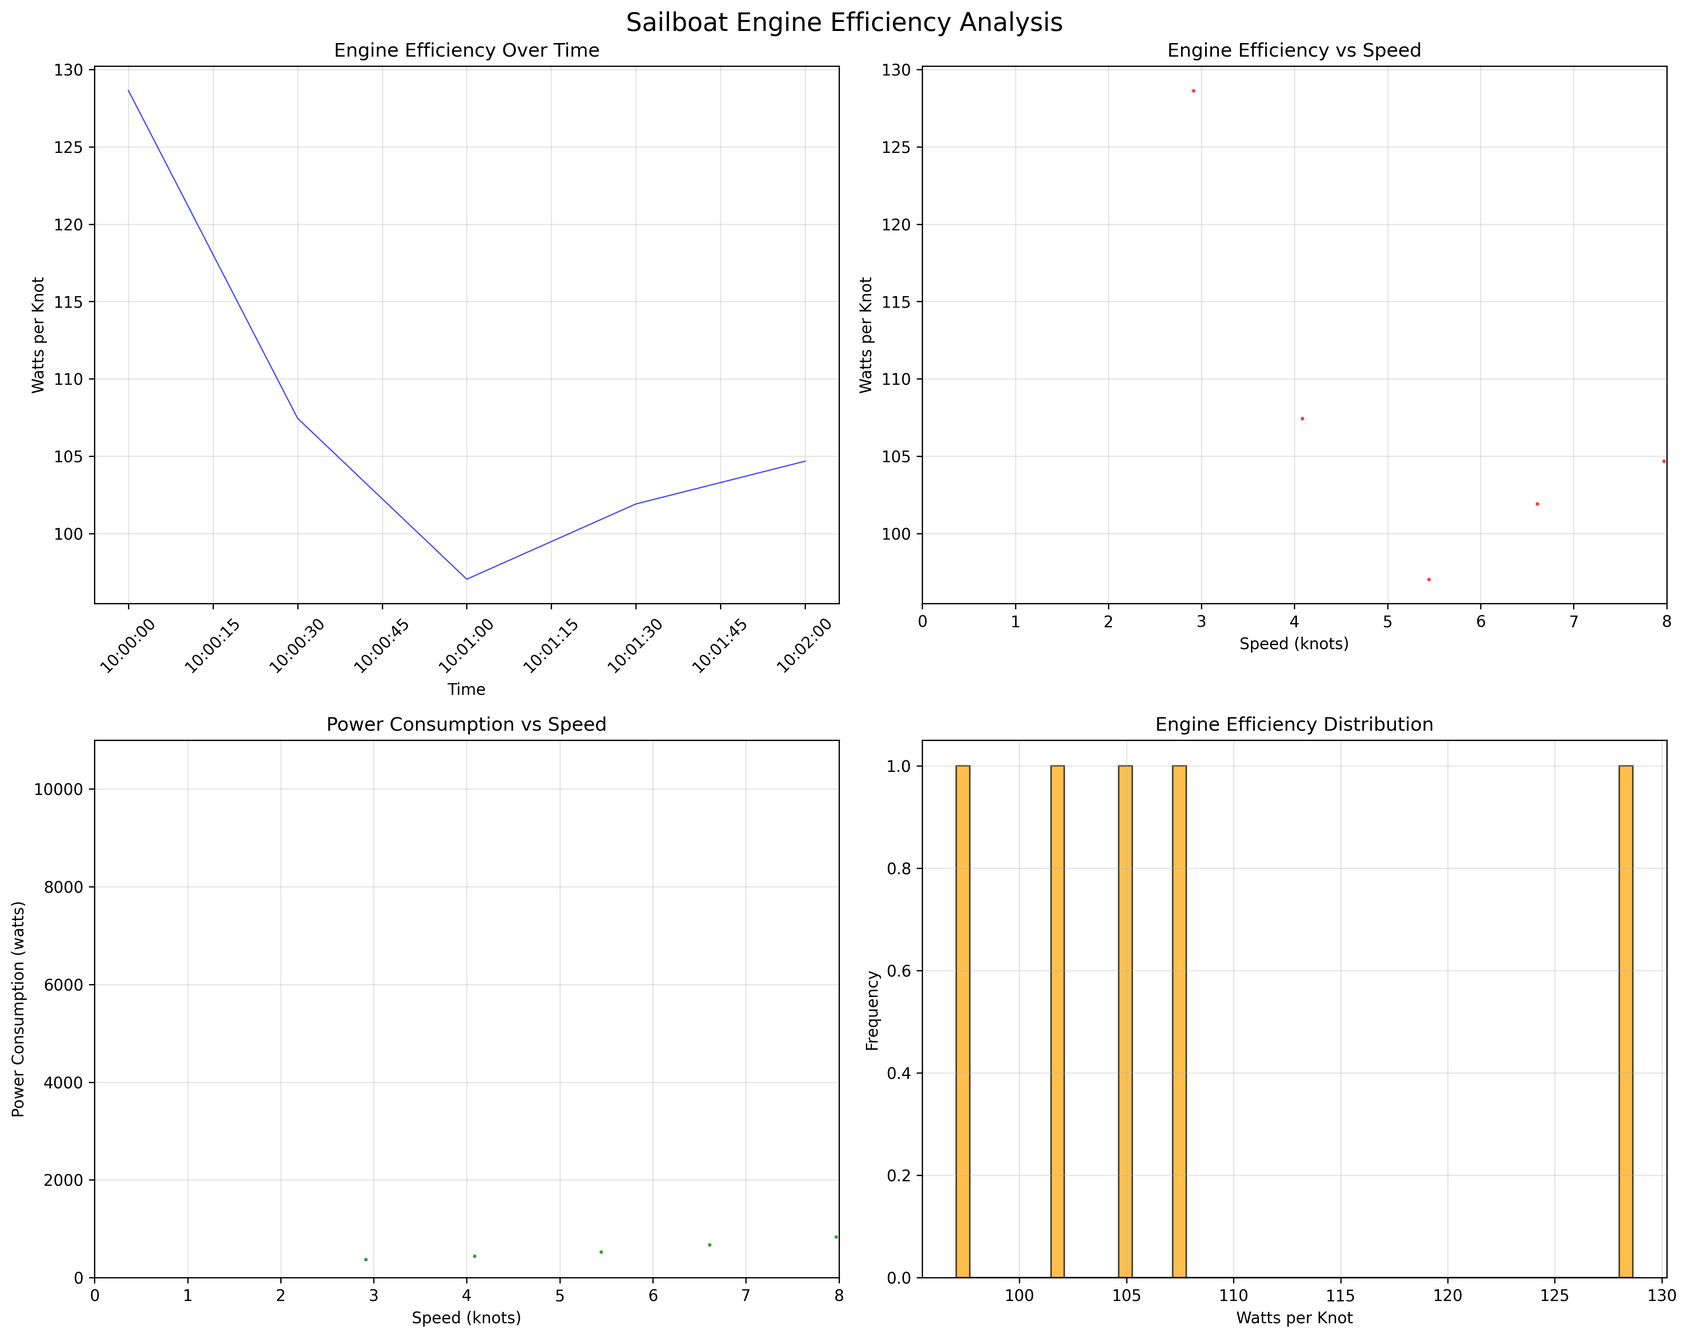
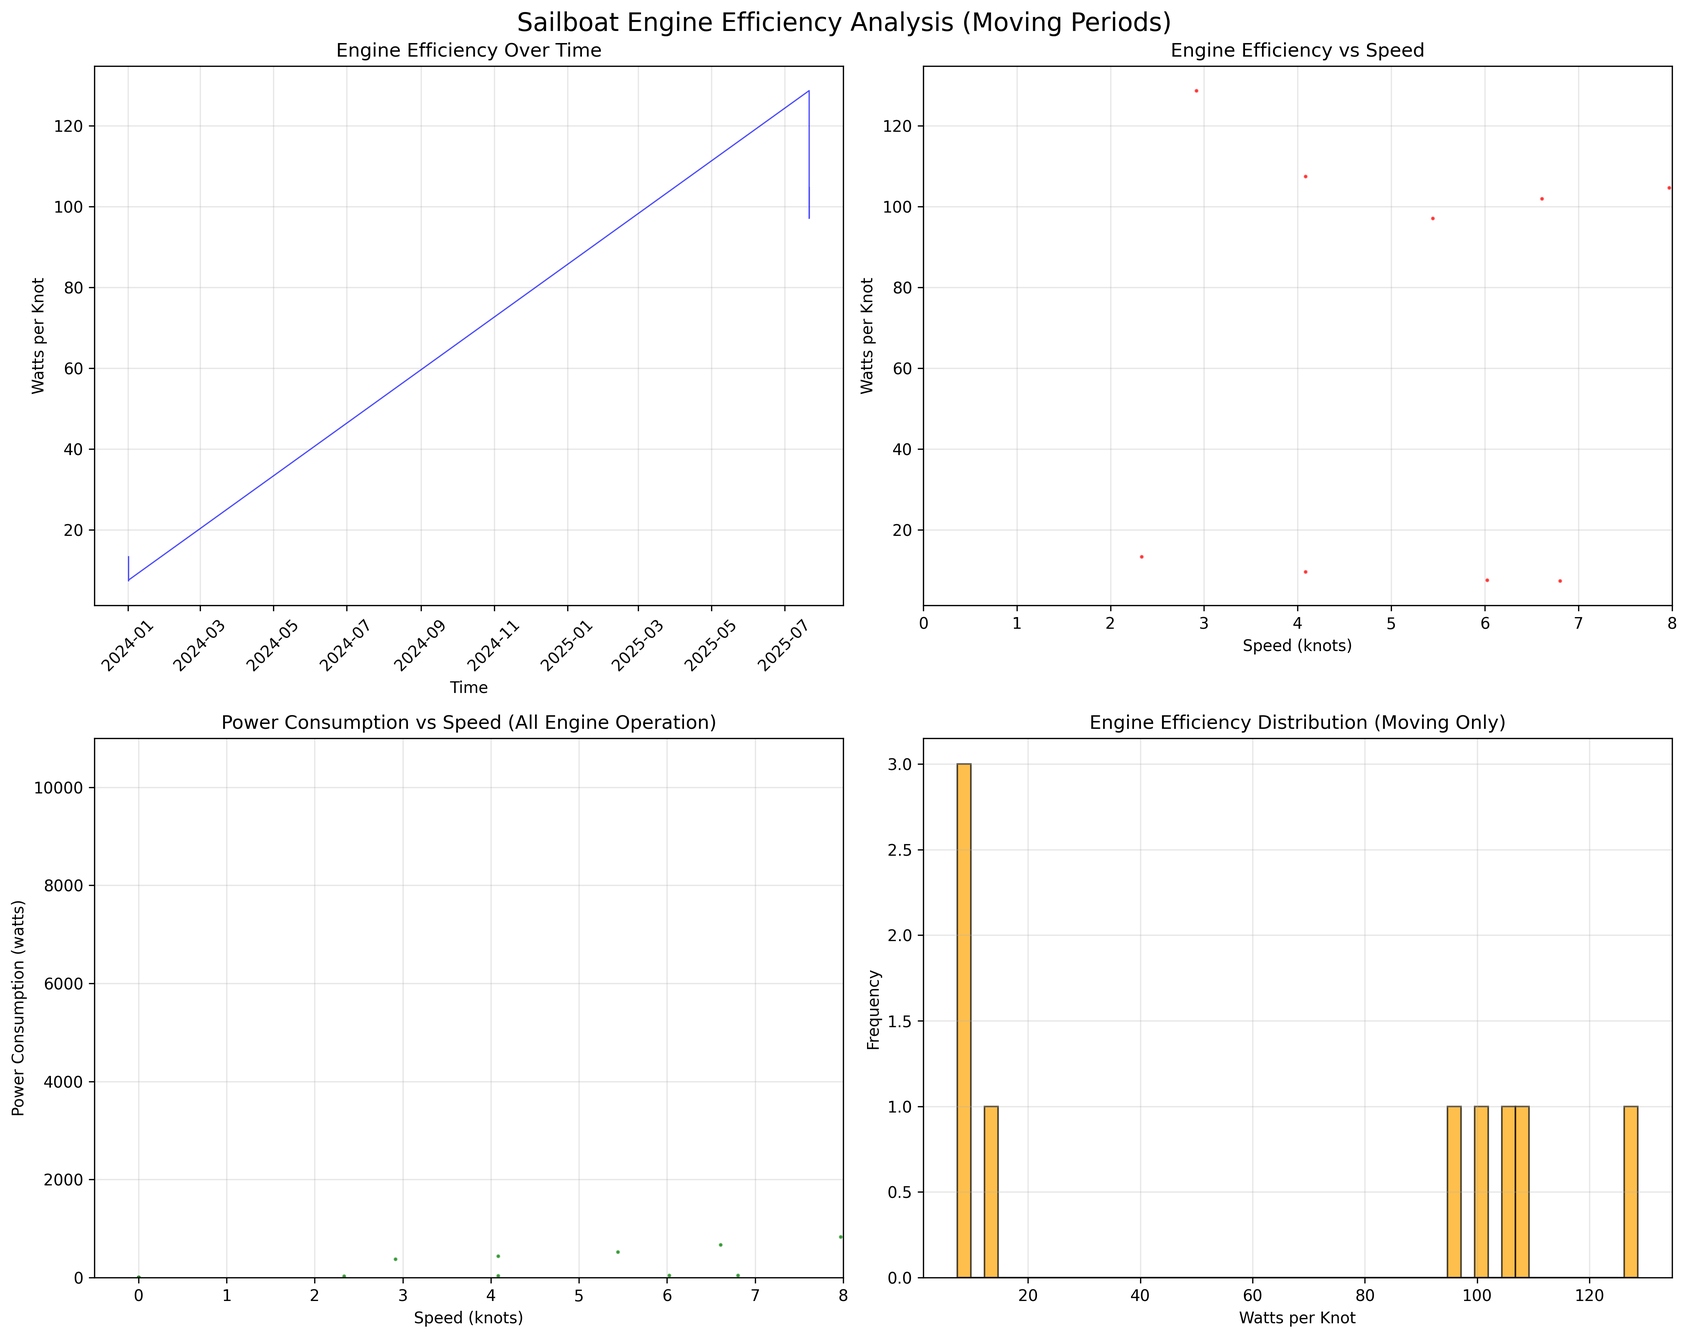
Enhance CSVAnalyzer and summary report for improved engine efficiency analysis, including detailed breakdown of moving and idle periods, and add new test data with idle states.

diff --git a/LogsAnalyzer/csv_analyzer.py b/LogsAnalyzer/csv_analyzer.py
@@ -2,7 +2,9 @@
 """
 Sailboat Engine Efficiency Analyzer for VenusOS DbusLogger
 Parses CSV files containing GPS and electrical data to calculate:
-- Total distance traveled (in nautical miles)
+- Total dista        print("Engine data breakdown:")
+        print(f"  Moving periods (>=0.5 knots): {len(moving_data)} data points")
+        print(f"  Idle periods (<0.5 knots): {len(idle_data)} data points") traveled (in nautical miles)
 - Engine efficiency (watts per knot)
 - Generates efficiency plots with sailboat-specific filtering
 
@@ -80,8 +82,12 @@ class CSVAnalyzer:
         """Clean and preprocess the loaded data."""
         print("Preprocessing data...")
         
-        # Convert timestamp to datetime
-        self.data['timestamp'] = pd.to_datetime(self.data['timestamp'])
+        # Convert timestamp to datetime with flexible parsing
+        try:
+            self.data['timestamp'] = pd.to_datetime(self.data['timestamp'])
+        except Exception as e:
+            print(f"Warning: Timestamp parsing issue, using mixed format: {e}")
+            self.data['timestamp'] = pd.to_datetime(self.data['timestamp'], format='mixed')
         
         # Remove rows with invalid GPS coordinates (0,0 or NaN)
         initial_rows = len(self.data)
@@ -155,29 +161,43 @@ class CSVAnalyzer:
         """Calculate engine efficiency (watts per knot)."""
         print("Calculating engine efficiency...")
         
-        # Filter out stationary points (speed < 0.5 knots)
-        # Note: Data is already filtered for sailboat conditions in preprocessing
-        moving_data = self.data[self.data['speed_knots'] >= 0.5].copy()
+        # All negative current data represents engine operation (including idle)
+        # The data is already filtered to only include negative currents (engine consumption)
+        engine_data = self.data.copy()
+        
+        # Separate moving and stationary (idle) engine periods
+        moving_data = engine_data[engine_data['speed_knots'] >= 0.5].copy()
+        idle_data = engine_data[engine_data['speed_knots'] < 0.5].copy()
+        
+        print(f"Engine data breakdown:")
+        print(f"  Moving periods (≥0.5 knots): {len(moving_data)} data points")
+        print(f"  Idle periods (<0.5 knots): {len(idle_data)} data points")
+        print(f"  Total engine operation: {len(engine_data)} data points")
         
         if len(moving_data) == 0:
             print("Warning: No movement data found (all speeds < 0.5 knots)")
+            # Still use all engine data for time calculations, but no efficiency metrics
+            self.efficiency_data = engine_data
             return
         
-        # Calculate efficiency (watts per knot) using consumption power
+        # Calculate efficiency (watts per knot) only for moving periods
         moving_data['efficiency_watts_per_knot'] = moving_data['power_watts'] / moving_data['speed_knots']
         
         # Remove any remaining extreme outliers (efficiency > 2000 watts/knot)
-        # This is more lenient since we've already filtered the raw data
         moving_data = moving_data[moving_data['efficiency_watts_per_knot'] <= 2000]
         
-        self.efficiency_data = moving_data
+        # For time calculations, use ALL engine data (moving + idle)
+        # For efficiency calculations, use only moving data
+        self.efficiency_data = engine_data  # All engine operation for time calculations
+        self.moving_efficiency_data = moving_data  # Only moving periods for efficiency metrics
         
-        if len(self.efficiency_data) > 0:
-            avg_efficiency = self.efficiency_data['efficiency_watts_per_knot'].mean()
-            print(f"Average engine efficiency: {avg_efficiency:.2f} watts per knot")
-            print(f"Efficiency data points: {len(self.efficiency_data)}")
+        if len(moving_data) > 0:
+            avg_efficiency = moving_data['efficiency_watts_per_knot'].mean()
+            print(f"Average engine efficiency (moving only): {avg_efficiency:.2f} watts per knot")
+            print(f"Moving efficiency data points: {len(moving_data)}")
         else:
-            print("Warning: No valid efficiency data calculated")
+            print("Warning: No valid moving efficiency data calculated")
+            self.moving_efficiency_data = pd.DataFrame()  # Empty dataframe if no moving data
             
     def plot_efficiency(self) -> None:
         """Create plots for engine efficiency analysis."""
@@ -185,15 +205,21 @@ class CSVAnalyzer:
             print("No efficiency data to plot")
             return
             
+        # Use moving data for efficiency plots if available
+        plot_data = getattr(self, 'moving_efficiency_data', self.efficiency_data)
+        if len(plot_data) == 0:
+            print("No moving efficiency data to plot")
+            return
+            
         print("Generating efficiency plots...")
         
         # Create subplots
         fig, ((ax1, ax2), (ax3, ax4)) = plt.subplots(2, 2, figsize=(15, 12))
-        fig.suptitle('Sailboat Engine Efficiency Analysis', fontsize=16)
+        fig.suptitle('Sailboat Engine Efficiency Analysis (Moving Periods)', fontsize=16)
         
         # Plot 1: Efficiency over time
-        ax1.plot(self.efficiency_data['timestamp'], 
-                self.efficiency_data['efficiency_watts_per_knot'], 
+        ax1.plot(plot_data['timestamp'], 
+                plot_data['efficiency_watts_per_knot'], 
                 alpha=0.7, linewidth=0.8, color='blue')
         ax1.set_title('Engine Efficiency Over Time')
         ax1.set_xlabel('Time')
@@ -202,8 +228,8 @@ class CSVAnalyzer:
         ax1.tick_params(axis='x', rotation=45)
         
         # Plot 2: Efficiency vs Speed
-        ax2.scatter(self.efficiency_data['speed_knots'], 
-                   self.efficiency_data['efficiency_watts_per_knot'], 
+        ax2.scatter(plot_data['speed_knots'], 
+                   plot_data['efficiency_watts_per_knot'], 
                    alpha=0.6, s=2, color='red')
         ax2.set_title('Engine Efficiency vs Speed')
         ax2.set_xlabel('Speed (knots)')
@@ -211,21 +237,21 @@ class CSVAnalyzer:
         ax2.set_xlim(0, 8)  # Sailboat speed limit
         ax2.grid(True, alpha=0.3)
         
-        # Plot 3: Power Consumption vs Speed
+        # Plot 3: Power Consumption vs Speed (use ALL engine data including idle)
         ax3.scatter(self.efficiency_data['speed_knots'], 
                    self.efficiency_data['power_watts'], 
                    alpha=0.6, s=2, color='green')
-        ax3.set_title('Power Consumption vs Speed')
+        ax3.set_title('Power Consumption vs Speed (All Engine Operation)')
         ax3.set_xlabel('Speed (knots)')
         ax3.set_ylabel('Power Consumption (watts)')
-        ax3.set_xlim(0, 8)  # Sailboat speed limit
+        ax3.set_xlim(-0.5, 8)  # Include idle at 0 knots
         ax3.set_ylim(0, 11000)  # Engine power limit
         ax3.grid(True, alpha=0.3)
         
-        # Plot 4: Efficiency histogram
-        ax4.hist(self.efficiency_data['efficiency_watts_per_knot'], 
+        # Plot 4: Efficiency histogram (moving periods only)
+        ax4.hist(plot_data['efficiency_watts_per_knot'], 
                 bins=50, alpha=0.7, edgecolor='black', color='orange')
-        ax4.set_title('Engine Efficiency Distribution')
+        ax4.set_title('Engine Efficiency Distribution (Moving Only)')
         ax4.set_xlabel('Watts per Knot')
         ax4.set_ylabel('Frequency')
         ax4.grid(True, alpha=0.3)
@@ -251,44 +277,61 @@ class CSVAnalyzer:
             print(f"Total distance traveled: {self.total_distance_nm:.2f} nautical miles")
             
             if len(self.efficiency_data) > 0:
-                avg_speed = self.efficiency_data['speed_knots'].mean()
-                max_speed = self.efficiency_data['speed_knots'].max()
-                avg_power = self.efficiency_data['power_watts'].mean()
-                max_power = self.efficiency_data['power_watts'].max()
-                avg_efficiency = self.efficiency_data['efficiency_watts_per_knot'].mean()
+                # Overall engine statistics (including idle)
+                avg_power_all = self.efficiency_data['power_watts'].mean()
+                max_power_all = self.efficiency_data['power_watts'].max()
                 
-                print(f"\nSpeed Statistics (Engine Only):")
-                print(f"  Average speed under engine: {avg_speed:.2f} knots")
-                print(f"  Maximum speed under engine: {max_speed:.2f} knots")
+                print(f"\nEngine Power Statistics (All Operation):")
+                print(f"  Average power consumption: {avg_power_all:.0f} watts ({avg_power_all/1000:.1f} kW)")
+                print(f"  Maximum power consumption: {max_power_all:.0f} watts ({max_power_all/1000:.1f} kW)")
                 
-                print(f"\nPower Consumption Statistics:")
-                print(f"  Average power consumption: {avg_power:.0f} watts ({avg_power/1000:.1f} kW)")
-                print(f"  Maximum power consumption: {max_power:.0f} watts ({max_power/1000:.1f} kW)")
-                
-                print(f"\nEngine Efficiency:")
-                print(f"  Average efficiency: {avg_efficiency:.1f} watts per knot")
-                
-                # Calculate efficiency at different speed ranges (sailboat specific)
-                speed_ranges = [
-                    (0, 2, "Very slow motoring (0-2 knots)"),
-                    (2, 4, "Slow motoring (2-4 knots)"),
-                    (4, 6, "Medium motoring (4-6 knots)"),
-                    (6, 8, "Fast motoring (6-8 knots)")
-                ]
-                
-                print(f"\nEfficiency by Speed Range:")
-                for min_speed, max_speed, label in speed_ranges:
-                    mask = (self.efficiency_data['speed_knots'] >= min_speed) & \
-                           (self.efficiency_data['speed_knots'] < max_speed)
-                    range_data = self.efficiency_data[mask]
+                # Moving periods statistics
+                if hasattr(self, 'moving_efficiency_data') and len(self.moving_efficiency_data) > 0:
+                    avg_speed = self.moving_efficiency_data['speed_knots'].mean()
+                    max_speed = self.moving_efficiency_data['speed_knots'].max()
+                    avg_efficiency = self.moving_efficiency_data['efficiency_watts_per_knot'].mean()
                     
-                    if len(range_data) > 0:
-                        range_efficiency = range_data['efficiency_watts_per_knot'].mean()
-                        range_power = range_data['power_watts'].mean()
-                        print(f"  {label}:")
-                        print(f"    Efficiency: {range_efficiency:.1f} watts/knot")
-                        print(f"    Avg Power: {range_power:.0f}W ({range_power/1000:.1f}kW)")
-                        print(f"    Data points: {len(range_data)}")
+                    print(f"\nSpeed Statistics (Moving Periods Only):")
+                    print(f"  Average speed under engine: {avg_speed:.2f} knots")
+                    print(f"  Maximum speed under engine: {max_speed:.2f} knots")
+                    
+                    print(f"\nEngine Efficiency (Moving Periods Only):")
+                    print(f"  Average efficiency: {avg_efficiency:.1f} watts per knot")
+                    
+                    # Calculate efficiency at different speed ranges (sailboat specific)
+                    speed_ranges = [
+                        (0, 2, "Very slow motoring (0-2 knots)"),
+                        (2, 4, "Slow motoring (2-4 knots)"),
+                        (4, 6, "Medium motoring (4-6 knots)"),
+                        (6, 8, "Fast motoring (6-8 knots)")
+                    ]
+                    
+                    print(f"\nEfficiency by Speed Range (Moving Only):")
+                    for min_speed, max_speed, label in speed_ranges:
+                        mask = (self.moving_efficiency_data['speed_knots'] >= min_speed) & \
+                               (self.moving_efficiency_data['speed_knots'] < max_speed)
+                        range_data = self.moving_efficiency_data[mask]
+                        
+                        if len(range_data) > 0:
+                            range_efficiency = range_data['efficiency_watts_per_knot'].mean()
+                            range_power = range_data['power_watts'].mean()
+                            print(f"  {label}:")
+                            print(f"    Efficiency: {range_efficiency:.1f} watts/knot")
+                            print(f"    Avg Power: {range_power:.0f}W ({range_power/1000:.1f}kW)")
+                            print(f"    Data points: {len(range_data)}")
+                
+                # Idle vs moving breakdown
+                idle_data = self.efficiency_data[self.efficiency_data['speed_knots'] < 0.5]
+                moving_data = self.efficiency_data[self.efficiency_data['speed_knots'] >= 0.5]
+                
+                print(f"\nEngine Operation Breakdown:")
+                print(f"  Total engine data points: {len(self.efficiency_data)}")
+                print(f"  Idle periods (<0.5 knots): {len(idle_data)} points")
+                print(f"  Moving periods (>=0.5 knots): {len(moving_data)} points")
+                
+                if len(idle_data) > 0:
+                    avg_idle_power = idle_data['power_watts'].mean()
+                    print(f"  Average idle power: {avg_idle_power:.0f}W ({avg_idle_power/24:.1f}A at 24V)")
                 
                 # Calculate total engine hours (more accurate calculation)
                 if len(self.efficiency_data) > 1:
@@ -336,44 +379,61 @@ class CSVAnalyzer:
                 f.write(f"Total distance traveled: {self.total_distance_nm:.2f} nautical miles\n")
                 
                 if len(self.efficiency_data) > 0:
-                    avg_speed = self.efficiency_data['speed_knots'].mean()
-                    max_speed = self.efficiency_data['speed_knots'].max()
-                    avg_power = self.efficiency_data['power_watts'].mean()
-                    max_power = self.efficiency_data['power_watts'].max()
-                    avg_efficiency = self.efficiency_data['efficiency_watts_per_knot'].mean()
+                    # Overall engine statistics (including idle)
+                    avg_power_all = self.efficiency_data['power_watts'].mean()
+                    max_power_all = self.efficiency_data['power_watts'].max()
                     
-                    f.write(f"\nSpeed Statistics (Engine Only):\n")
-                    f.write(f"  Average speed under engine: {avg_speed:.2f} knots\n")
-                    f.write(f"  Maximum speed under engine: {max_speed:.2f} knots\n")
+                    f.write(f"\nEngine Power Statistics (All Operation):\n")
+                    f.write(f"  Average power consumption: {avg_power_all:.0f} watts ({avg_power_all/1000:.1f} kW)\n")
+                    f.write(f"  Maximum power consumption: {max_power_all:.0f} watts ({max_power_all/1000:.1f} kW)\n")
                     
-                    f.write(f"\nPower Consumption Statistics:\n")
-                    f.write(f"  Average power consumption: {avg_power:.0f} watts ({avg_power/1000:.1f} kW)\n")
-                    f.write(f"  Maximum power consumption: {max_power:.0f} watts ({max_power/1000:.1f} kW)\n")
-                    
-                    f.write(f"\nEngine Efficiency:\n")
-                    f.write(f"  Average efficiency: {avg_efficiency:.1f} watts per knot\n")
-                    
-                    # Calculate efficiency at different speed ranges (sailboat specific)
-                    speed_ranges = [
-                        (0, 2, "Very slow motoring (0-2 knots)"),
-                        (2, 4, "Slow motoring (2-4 knots)"),
-                        (4, 6, "Medium motoring (4-6 knots)"),
-                        (6, 8, "Fast motoring (6-8 knots)")
-                    ]
-                    
-                    f.write(f"\nEfficiency by Speed Range:\n")
-                    for min_speed, max_speed, label in speed_ranges:
-                        mask = (self.efficiency_data['speed_knots'] >= min_speed) & \
-                               (self.efficiency_data['speed_knots'] < max_speed)
-                        range_data = self.efficiency_data[mask]
+                    # Moving periods statistics
+                    if hasattr(self, 'moving_efficiency_data') and len(self.moving_efficiency_data) > 0:
+                        avg_speed = self.moving_efficiency_data['speed_knots'].mean()
+                        max_speed = self.moving_efficiency_data['speed_knots'].max()
+                        avg_efficiency = self.moving_efficiency_data['efficiency_watts_per_knot'].mean()
                         
-                        if len(range_data) > 0:
-                            range_efficiency = range_data['efficiency_watts_per_knot'].mean()
-                            range_power = range_data['power_watts'].mean()
-                            f.write(f"  {label}:\n")
-                            f.write(f"    Efficiency: {range_efficiency:.1f} watts/knot\n")
-                            f.write(f"    Avg Power: {range_power:.0f}W ({range_power/1000:.1f}kW)\n")
-                            f.write(f"    Data points: {len(range_data)}\n")
+                        f.write(f"\nSpeed Statistics (Moving Periods Only):\n")
+                        f.write(f"  Average speed under engine: {avg_speed:.2f} knots\n")
+                        f.write(f"  Maximum speed under engine: {max_speed:.2f} knots\n")
+                        
+                        f.write(f"\nEngine Efficiency (Moving Periods Only):\n")
+                        f.write(f"  Average efficiency: {avg_efficiency:.1f} watts per knot\n")
+                        
+                        # Calculate efficiency at different speed ranges (sailboat specific)
+                        speed_ranges = [
+                            (0, 2, "Very slow motoring (0-2 knots)"),
+                            (2, 4, "Slow motoring (2-4 knots)"),
+                            (4, 6, "Medium motoring (4-6 knots)"),
+                            (6, 8, "Fast motoring (6-8 knots)")
+                        ]
+                        
+                        f.write(f"\nEfficiency by Speed Range (Moving Only):\n")
+                        for min_speed, max_speed, label in speed_ranges:
+                            mask = (self.moving_efficiency_data['speed_knots'] >= min_speed) & \
+                                   (self.moving_efficiency_data['speed_knots'] < max_speed)
+                            range_data = self.moving_efficiency_data[mask]
+                            
+                            if len(range_data) > 0:
+                                range_efficiency = range_data['efficiency_watts_per_knot'].mean()
+                                range_power = range_data['power_watts'].mean()
+                                f.write(f"  {label}:\n")
+                                f.write(f"    Efficiency: {range_efficiency:.1f} watts/knot\n")
+                                f.write(f"    Avg Power: {range_power:.0f}W ({range_power/1000:.1f}kW)\n")
+                                f.write(f"    Data points: {len(range_data)}\n")
+                    
+                    # Idle vs moving breakdown
+                    idle_data = self.efficiency_data[self.efficiency_data['speed_knots'] < 0.5]
+                    moving_data = self.efficiency_data[self.efficiency_data['speed_knots'] >= 0.5]
+                    
+                    f.write(f"\nEngine Operation Breakdown:\n")
+                    f.write(f"  Total engine data points: {len(self.efficiency_data)}\n")
+                    f.write(f"  Idle periods (<0.5 knots): {len(idle_data)} points\n")
+                    f.write(f"  Moving periods (>=0.5 knots): {len(moving_data)} points\n")
+                    
+                    if len(idle_data) > 0:
+                        avg_idle_power = idle_data['power_watts'].mean()
+                        f.write(f"  Average idle power: {avg_idle_power:.0f}W ({avg_idle_power/24:.1f}A at 24V)\n")
                     
                     # Calculate total engine hours (more accurate calculation)
                     if len(self.efficiency_data) > 1:
